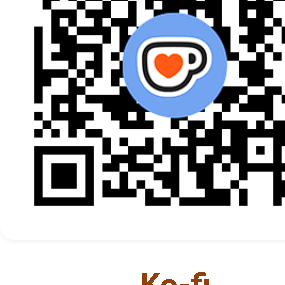
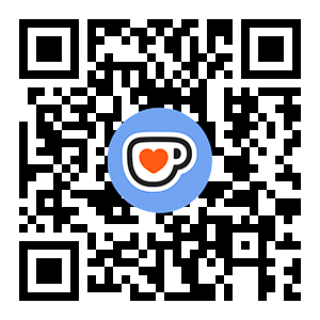
fix(donate): separate pure QR codes from text, fix mobile responsive tabs, and add 1-click copy STK

diff --git a/index.html b/index.html
@@ -930,6 +930,18 @@
       padding: 20px;
     }
     .qr-modal.active { display: flex; }
+
+    /* Support / Donate Modal Responsive Styles */
+    @media (max-width: 639px) {
+      .donate-mobile-tabs { display: flex !important; }
+      .donate-mobile-content { display: block !important; }
+      .donate-desktop-grid { display: none !important; }
+    }
+    @media (min-width: 640px) {
+      .donate-mobile-tabs { display: none !important; }
+      .donate-mobile-content { display: none !important; }
+      .donate-desktop-grid { display: grid !important; }
+    }
     .qr-card {
       background: #fff;
       color: #070a12;
@@ -1601,46 +1613,100 @@
 
   <!-- Support Project / Soft-Paywall Modal (Ko-fi, Momo, MB Bank VietQR) -->
   <div class="qr-modal" id="donateModal" role="dialog" aria-modal="true" aria-label="Ủng hộ dự án">
-    <div class="qr-card" style="max-width: 580px; width: 95%; max-height: 92vh; overflow-y: auto; text-align: left; background: #ffffff; color: #1e293b; border-radius: 20px; box-shadow: 0 25px 60px rgba(0,0,0,0.5); padding: 22px 20px; box-sizing: border-box; border: 1px solid #e2e8f0;">
-      <div style="display:flex; justify-content:space-between; align-items:flex-start; margin-bottom:6px;">
+    <div class="qr-card" style="max-width: 660px; width: 95%; max-height: 94vh; overflow-y: auto; text-align: left; background: #ffffff; color: #1e293b; border-radius: 20px; box-shadow: 0 25px 60px rgba(0,0,0,0.5); padding: 20px 18px; box-sizing: border-box; border: 1px solid #e2e8f0;">
+      <div style="display:flex; justify-content:space-between; align-items:flex-start; margin-bottom:12px;">
         <div>
           <h3 id="donateTitle" style="font-size:1.25rem; font-weight:800; color:#0f172a; margin:0;">Ủng hộ dự án</h3>
-          <p id="donateSubtitle" style="font-size:0.8rem; color:#64748b; margin:4px 0 0 0;">Nếu công cụ này hữu ích, vui lòng cân nhắc ủng hộ để phát triển. Xin cảm ơn!</p>
+          <p id="donateSubtitle" style="font-size:0.78rem; color:#64748b; margin:3px 0 0 0; line-height:1.4;">Nếu công cụ này hữu ích, vui lòng cân nhắc ủng hộ để phát triển. Xin cảm ơn!</p>
         </div>
         <button class="qr-close" id="btnCloseDonateModal" aria-label="Đóng bảng ủng hộ" style="position:static; color:#64748b; font-size:1.4rem; cursor:pointer; background:none; border:none; padding:4px;">✕</button>
       </div>
 
-      <!-- 3 QR Payment Cards Grid -->
-      <div style="display:grid; grid-template-columns:repeat(auto-fit, minmax(150px, 1fr)); gap:12px; margin:20px 0 16px 0;">
-        <!-- Ko-fi -->
-        <div style="background:#f8fafc; border:1px solid #e2e8f0; border-radius:14px; padding:12px 8px; text-align:center; display:flex; flex-direction:column; align-items:center; box-shadow:0 2px 8px rgba(0,0,0,0.04);">
-          <div style="width:100%; max-width:145px; aspect-ratio:1; background:#fff; border-radius:8px; padding:6px; box-shadow:0 1px 4px rgba(0,0,0,0.06); display:flex; align-items:center; justify-content:center;">
-            <img src="/assets/donate/kofi-qr.png" alt="Ko-fi QR" style="width:100%; height:100%; object-fit:contain;">
+      <!-- Mobile Segmented Tabs (< 640px) -->
+      <div class="donate-mobile-tabs" style="display:none; margin-bottom:14px; background:#f1f5f9; padding:3px; border-radius:10px; gap:4px;">
+        <button type="button" class="btn-donate-tab active" data-tab="mbbank" style="flex:1; padding:8px 4px; border:none; border-radius:8px; background:#2563eb; color:#fff; font-size:0.75rem; font-weight:700; cursor:pointer; transition:all 0.15s;">
+          🏦 MB Bank
+        </button>
+        <button type="button" class="btn-donate-tab" data-tab="momo" style="flex:1; padding:8px 4px; border:none; border-radius:8px; background:transparent; color:#64748b; font-size:0.75rem; font-weight:700; cursor:pointer; transition:all 0.15s;">
+          📱 Momo
+        </button>
+        <button type="button" class="btn-donate-tab" data-tab="kofi" style="flex:1; padding:8px 4px; border:none; border-radius:8px; background:transparent; color:#64748b; font-size:0.75rem; font-weight:700; cursor:pointer; transition:all 0.15s;">
+          ☕ Ko-fi
+        </button>
+      </div>
+
+      <!-- Mobile Active QR View (< 640px) -->
+      <div class="donate-mobile-content" style="display:none; margin-bottom:16px;">
+        <!-- Mobile MB Bank Tab -->
+        <div id="mobTabMbBank" class="mob-donate-pane active" style="text-align:center; background:#f8fafc; border:1px solid #e2e8f0; border-radius:14px; padding:16px 12px;">
+          <div style="background:#fff; border-radius:10px; padding:8px; display:inline-block; box-shadow:0 2px 8px rgba(0,0,0,0.06); max-width:260px; width:100%;">
+            <img src="/assets/donate/mbbank-vietqr.png" alt="MB Bank VietQR" style="width:100%; height:auto; display:block; margin:0 auto; border-radius:6px;">
           </div>
-          <div style="margin-top:10px; font-weight:800; font-size:0.95rem; color:#b45309;">Ko-fi</div>
+          <div style="margin-top:10px;">
+            <div style="font-weight:800; font-size:1.05rem; color:#2563eb;">MB Bank (VietQR)</div>
+            <div style="display:inline-flex; align-items:center; gap:6px; background:#eff6ff; border:1px solid #bfdbfe; padding:4px 10px; border-radius:6px; margin-top:6px;">
+              <span style="font-family:monospace; font-weight:800; font-size:0.92rem; color:#1e3a8a;">1020199999989</span>
+              <button type="button" id="btnCopyStkMobile" style="background:#2563eb; color:#fff; border:none; padding:3px 8px; border-radius:4px; font-size:0.68rem; font-weight:700; cursor:pointer;">Sao chép</button>
+            </div>
+            <div style="font-size:0.75rem; font-weight:600; color:#64748b; margin-top:4px;">Phan Manh Khang</div>
+          </div>
         </div>
 
-        <!-- Momo -->
-        <div style="background:#f8fafc; border:1px solid #e2e8f0; border-radius:14px; padding:12px 8px; text-align:center; display:flex; flex-direction:column; align-items:center; box-shadow:0 2px 8px rgba(0,0,0,0.04);">
-          <div style="width:100%; max-width:145px; aspect-ratio:1; background:#fff; border-radius:8px; padding:6px; box-shadow:0 1px 4px rgba(0,0,0,0.06); display:flex; align-items:center; justify-content:center;">
-            <img src="/assets/donate/momo-qr.png" alt="Momo QR" style="width:100%; height:100%; object-fit:contain;">
+        <!-- Mobile Momo Tab -->
+        <div id="mobTabMomo" class="mob-donate-pane" style="display:none; text-align:center; background:#f8fafc; border:1px solid #e2e8f0; border-radius:14px; padding:16px 12px;">
+          <div style="background:#fff; border-radius:10px; padding:12px; display:inline-block; box-shadow:0 2px 8px rgba(0,0,0,0.06); max-width:240px; width:100%;">
+            <img src="/assets/donate/momo-qr.png" alt="Momo QR" style="width:100%; height:auto; display:block; margin:0 auto; border-radius:6px;">
           </div>
-          <div style="margin-top:10px; font-weight:800; font-size:0.95rem; color:#d946ef;">Momo</div>
+          <div style="margin-top:10px;">
+            <div style="font-weight:800; font-size:1.05rem; color:#d946ef;">Momo</div>
+          </div>
         </div>
 
-        <!-- MB Bank VietQR -->
-        <div style="background:#f8fafc; border:1px solid #e2e8f0; border-radius:14px; padding:12px 8px; text-align:center; display:flex; flex-direction:column; align-items:center; box-shadow:0 2px 8px rgba(0,0,0,0.04);">
-          <div style="width:100%; max-width:145px; aspect-ratio:1; background:#fff; border-radius:8px; padding:4px; box-shadow:0 1px 4px rgba(0,0,0,0.06); display:flex; align-items:center; justify-content:center;">
-            <img src="/assets/donate/mbbank-vietqr.png" alt="MB Bank VietQR" style="width:100%; height:100%; object-fit:contain;">
+        <!-- Mobile Ko-fi Tab -->
+        <div id="mobTabKofi" class="mob-donate-pane" style="display:none; text-align:center; background:#f8fafc; border:1px solid #e2e8f0; border-radius:14px; padding:16px 12px;">
+          <div style="background:#fff; border-radius:10px; padding:12px; display:inline-block; box-shadow:0 2px 8px rgba(0,0,0,0.06); max-width:240px; width:100%;">
+            <img src="/assets/donate/kofi-qr.png" alt="Ko-fi QR" style="width:100%; height:auto; display:block; margin:0 auto; border-radius:6px;">
           </div>
-          <div style="margin-top:8px; font-weight:800; font-size:0.92rem; color:#2563eb;">MB Bank (VietQR)</div>
-          <div style="font-size:0.75rem; font-family:monospace; font-weight:700; color:#334155; margin-top:2px;">1020199999989</div>
-          <div style="font-size:0.7rem; color:#64748b;">Phan Manh Khang</div>
+          <div style="margin-top:10px;">
+            <div style="font-weight:800; font-size:1.05rem; color:#b45309;">Ko-fi</div>
+          </div>
+        </div>
+      </div>
+
+      <!-- Desktop 3-Column Grid (>= 640px) -->
+      <div class="donate-desktop-grid" style="display:grid; grid-template-columns: 1fr 1fr 1fr; gap:12px; margin:16px 0;">
+        <!-- Ko-fi Card -->
+        <div style="background:#f8fafc; border:1px solid #e2e8f0; border-radius:14px; padding:14px 10px; text-align:center; display:flex; flex-direction:column; align-items:center; box-shadow:0 2px 8px rgba(0,0,0,0.04);">
+          <div style="width:100%; max-width:160px; background:#fff; border-radius:8px; padding:8px; box-shadow:0 1px 4px rgba(0,0,0,0.06); box-sizing:border-box;">
+            <img src="/assets/donate/kofi-qr.png" alt="Ko-fi QR" style="width:100%; height:auto; display:block; border-radius:4px;">
+          </div>
+          <div style="margin-top:12px; font-weight:800; font-size:0.95rem; color:#b45309;">Ko-fi</div>
+        </div>
+
+        <!-- Momo Card -->
+        <div style="background:#f8fafc; border:1px solid #e2e8f0; border-radius:14px; padding:14px 10px; text-align:center; display:flex; flex-direction:column; align-items:center; box-shadow:0 2px 8px rgba(0,0,0,0.04);">
+          <div style="width:100%; max-width:160px; background:#fff; border-radius:8px; padding:8px; box-shadow:0 1px 4px rgba(0,0,0,0.06); box-sizing:border-box;">
+            <img src="/assets/donate/momo-qr.png" alt="Momo QR" style="width:100%; height:auto; display:block; border-radius:4px;">
+          </div>
+          <div style="margin-top:12px; font-weight:800; font-size:0.95rem; color:#d946ef;">Momo</div>
+        </div>
+
+        <!-- MB Bank VietQR Card -->
+        <div style="background:#f8fafc; border:1px solid #e2e8f0; border-radius:14px; padding:14px 10px; text-align:center; display:flex; flex-direction:column; align-items:center; box-shadow:0 2px 8px rgba(0,0,0,0.04);">
+          <div style="width:100%; max-width:160px; background:#fff; border-radius:8px; padding:6px; box-shadow:0 1px 4px rgba(0,0,0,0.06); box-sizing:border-box;">
+            <img src="/assets/donate/mbbank-vietqr.png" alt="MB Bank VietQR" style="width:100%; height:auto; display:block; border-radius:4px;">
+          </div>
+          <div style="margin-top:10px; font-weight:800; font-size:0.92rem; color:#2563eb;">MB Bank (VietQR)</div>
+          <div style="display:inline-flex; align-items:center; gap:4px; background:#eff6ff; border:1px solid #bfdbfe; padding:2px 8px; border-radius:4px; margin-top:4px;">
+            <span style="font-size:0.75rem; font-family:monospace; font-weight:800; color:#1e3a8a;">1020199999989</span>
+            <button type="button" id="btnCopyStkDesktop" style="background:#2563eb; color:#fff; border:none; padding:1px 5px; border-radius:3px; font-size:0.6rem; font-weight:700; cursor:pointer;">Copy</button>
+          </div>
+          <div style="font-size:0.7rem; font-weight:600; color:#64748b; margin-top:2px;">Phan Manh Khang</div>
         </div>
       </div>
 
       <!-- Footer: Bấm để tiếp tục sử dụng miễn phí -->
-      <div style="display:flex; justify-content:flex-end; align-items:center; gap:10px; padding-top:10px; border-top:1px solid #f1f5f9;">
+      <div style="display:flex; justify-content:flex-end; align-items:center; gap:10px; padding-top:12px; border-top:1px solid #f1f5f9;">
         <button type="button" id="btnContinueFree" style="background:#0f172a; color:#fff; border:none; padding:10px 18px; border-radius:8px; font-size:0.82rem; font-weight:700; cursor:pointer;">
           Tiếp tục vào tính năng VIP ➔
         </button>
@@ -2327,6 +2393,52 @@ const BRAND_ICONS = {
       if (e.target === donateModal) dismissDonateModal();
     });
   }
+
+  // Mobile Donate Tabs Switching (< 640px)
+  const donateTabs = document.querySelectorAll('.btn-donate-tab');
+  const mobDonatePanes = {
+    mbbank: document.getElementById('mobTabMbBank'),
+    momo: document.getElementById('mobTabMomo'),
+    kofi: document.getElementById('mobTabKofi')
+  };
+  donateTabs.forEach(tab => {
+    tab.onclick = () => {
+      const target = tab.getAttribute('data-tab');
+      donateTabs.forEach(t => {
+        const isCurrent = (t === tab);
+        t.classList.toggle('active', isCurrent);
+        if (isCurrent) {
+          t.style.background = (target === 'mbbank') ? '#2563eb' : (target === 'momo' ? '#d946ef' : '#b45309');
+          t.style.color = '#fff';
+        } else {
+          t.style.background = 'transparent';
+          t.style.color = '#64748b';
+        }
+      });
+      Object.keys(mobDonatePanes).forEach(k => {
+        if (mobDonatePanes[k]) {
+          mobDonatePanes[k].style.display = (k === target) ? 'block' : 'none';
+        }
+      });
+    };
+  });
+
+  // Copy STK MB Bank Helper
+  function copyMbStk() {
+    if (navigator.clipboard && navigator.clipboard.writeText) {
+      navigator.clipboard.writeText('1020199999989').then(() => {
+        showToast('Đã sao chép STK MB Bank: 1020199999989');
+      }).catch(() => {
+        showToast('STK: 1020199999989 (Phan Manh Khang)');
+      });
+    } else {
+      showToast('STK: 1020199999989 (Phan Manh Khang)');
+    }
+  }
+  const btnCopyStkMobile = document.getElementById('btnCopyStkMobile');
+  const btnCopyStkDesktop = document.getElementById('btnCopyStkDesktop');
+  if (btnCopyStkMobile) btnCopyStkMobile.onclick = copyMbStk;
+  if (btnCopyStkDesktop) btnCopyStkDesktop.onclick = copyMbStk;
 
   if (btnChoiceOpenBuilder) {
     btnChoiceOpenBuilder.onclick = () => {
